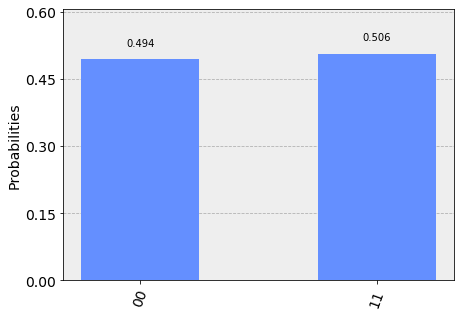
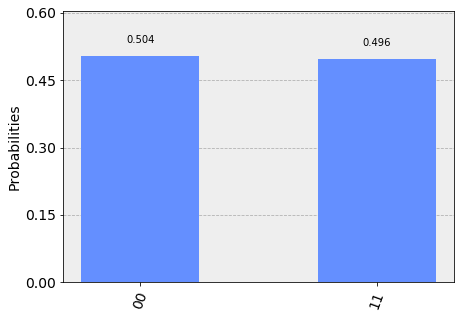
Automated documentation update from meta-qiskit
Commit: 0ca59ba36e3de64f6b4e516d5b1f9fa39742d98f

Travis build: https://travis-ci.com/Qiskit/qiskit/builds/132474613

diff --git a/documentation/release_notes.html b/documentation/release_notes.html
@@ -1328,133 +1328,140 @@
 </tr>
 </thead>
 <tbody>
-<tr class="row-even"><td><p>0.12.2</p></td>
+<tr class="row-even"><td><p>0.13.0</p></td>
+<td><p>0.10.0</p></td>
+<td><p>0.3.2</p></td>
+<td><p>0.2.0</p></td>
+<td><p>0.3.3</p></td>
+<td><p>0.6.1</p></td>
+</tr>
+<tr class="row-odd"><td><p>0.12.2</p></td>
 <td><p>0.9.1</p></td>
 <td><p>0.3.0</p></td>
 <td><p>0.2.0</p></td>
 <td><p>0.3.3</p></td>
 <td><p>0.6.0</p></td>
 </tr>
-<tr class="row-odd"><td><p>0.12.1</p></td>
+<tr class="row-even"><td><p>0.12.1</p></td>
 <td><p>0.9.0</p></td>
 <td><p>0.3.0</p></td>
 <td><p>0.2.0</p></td>
 <td><p>0.3.3</p></td>
 <td><p>0.6.0</p></td>
 </tr>
-<tr class="row-even"><td><p>0.12.0</p></td>
+<tr class="row-odd"><td><p>0.12.0</p></td>
 <td><p>0.9.0</p></td>
 <td><p>0.3.0</p></td>
 <td><p>0.2.0</p></td>
 <td><p>0.3.2</p></td>
 <td><p>0.6.0</p></td>
 </tr>
-<tr class="row-odd"><td><p>0.11.2</p></td>
+<tr class="row-even"><td><p>0.11.2</p></td>
 <td><p>0.8.2</p></td>
 <td><p>0.2.3</p></td>
 <td><p>0.1.1</p></td>
 <td><p>0.3.2</p></td>
 <td><p>0.5.5</p></td>
 </tr>
-<tr class="row-even"><td><p>0.11.1</p></td>
+<tr class="row-odd"><td><p>0.11.1</p></td>
 <td><p>0.8.2</p></td>
 <td><p>0.2.3</p></td>
 <td><p>0.1.1</p></td>
 <td><p>0.3.1</p></td>
 <td><p>0.5.3</p></td>
 </tr>
-<tr class="row-odd"><td><p>0.11.0</p></td>
+<tr class="row-even"><td><p>0.11.0</p></td>
 <td><p>0.8.2</p></td>
 <td><p>0.2.3</p></td>
 <td><p>0.1.1</p></td>
 <td><p>0.3.0</p></td>
 <td><p>0.5.2</p></td>
 </tr>
-<tr class="row-even"><td><p>0.10.5</p></td>
+<tr class="row-odd"><td><p>0.10.5</p></td>
 <td><p>0.8.2</p></td>
 <td><p>0.2.1</p></td>
 <td><p>0.1.1</p></td>
 <td><p>0.2.2</p></td>
 <td><p>0.5.2</p></td>
 </tr>
-<tr class="row-odd"><td><p>0.10.4</p></td>
+<tr class="row-even"><td><p>0.10.4</p></td>
 <td><p>0.8.2</p></td>
 <td><p>0.2.1</p></td>
 <td><p>0.1.1</p></td>
 <td><p>0.2.2</p></td>
 <td><p>0.5.1</p></td>
 </tr>
-<tr class="row-even"><td><p>0.10.3</p></td>
+<tr class="row-odd"><td><p>0.10.3</p></td>
 <td><p>0.8.1</p></td>
 <td><p>0.2.1</p></td>
 <td><p>0.1.1</p></td>
 <td><p>0.2.2</p></td>
 <td><p>0.5.1</p></td>
 </tr>
-<tr class="row-odd"><td><p>0.10.2</p></td>
+<tr class="row-even"><td><p>0.10.2</p></td>
 <td><p>0.8.0</p></td>
 <td><p>0.2.1</p></td>
 <td><p>0.1.1</p></td>
 <td><p>0.2.2</p></td>
 <td><p>0.5.1</p></td>
 </tr>
-<tr class="row-even"><td><p>0.10.1</p></td>
+<tr class="row-odd"><td><p>0.10.1</p></td>
 <td><p>0.8.0</p></td>
 <td><p>0.2.0</p></td>
 <td><p>0.1.1</p></td>
 <td><p>0.2.2</p></td>
 <td><p>0.5.0</p></td>
 </tr>
-<tr class="row-odd"><td><p>0.10.0</p></td>
+<tr class="row-even"><td><p>0.10.0</p></td>
 <td><p>0.8.0</p></td>
 <td><p>0.2.0</p></td>
 <td><p>0.1.1</p></td>
 <td><p>0.2.1</p></td>
 <td><p>0.5.0</p></td>
 </tr>
-<tr class="row-even"><td><p>0.9.0</p></td>
+<tr class="row-odd"><td><p>0.9.0</p></td>
 <td><p>0.8.0</p></td>
 <td><p>0.2.0</p></td>
 <td><p>0.1.1</p></td>
 <td><p>0.1.1</p></td>
 <td><p>0.5.0</p></td>
 </tr>
-<tr class="row-odd"><td><p>0.8.1</p></td>
+<tr class="row-even"><td><p>0.8.1</p></td>
 <td><p>0.7.2</p></td>
 <td><p>0.1.1</p></td>
 <td><p>0.1.0</p></td>
 <td></td>
 <td></td>
 </tr>
-<tr class="row-even"><td><p>0.8.0</p></td>
+<tr class="row-odd"><td><p>0.8.0</p></td>
 <td><p>0.7.1</p></td>
 <td><p>0.1.1</p></td>
 <td><p>0.1.0</p></td>
 <td></td>
 <td></td>
 </tr>
-<tr class="row-odd"><td><p>0.7.3</p></td>
+<tr class="row-even"><td><p>0.7.3</p></td>
 <td><p>&gt;=0.7,&lt;0.8</p></td>
 <td><p>&gt;=0.1,&lt;0.2</p></td>
 <td></td>
 <td></td>
 <td></td>
 </tr>
-<tr class="row-even"><td><p>0.7.2</p></td>
+<tr class="row-odd"><td><p>0.7.2</p></td>
 <td><p>&gt;=0.7,&lt;0.8</p></td>
 <td><p>&gt;=0.1,&lt;0.2</p></td>
 <td></td>
 <td></td>
 <td></td>
 </tr>
-<tr class="row-odd"><td><p>0.7.1</p></td>
+<tr class="row-even"><td><p>0.7.1</p></td>
 <td><p>&gt;=0.7,&lt;0.8</p></td>
 <td><p>&gt;=0.1,&lt;0.2</p></td>
 <td></td>
 <td></td>
 <td></td>
 </tr>
-<tr class="row-even"><td><p>0.7.0</p></td>
+<tr class="row-odd"><td><p>0.7.0</p></td>
 <td><p>&gt;=0.7,&lt;0.8</p></td>
 <td><p>&gt;=0.1,&lt;0.2</p></td>
 <td></td>

diff --git a/documentation/getting_started.html b/documentation/getting_started.html
@@ -1362,7 +1362,7 @@ subsequent sections:</p>
 </pre></div>
 </div>
 <div class="highlight-default notranslate"><div class="highlight"><pre><span></span>
-<span class="n">Total</span> <span class="n">count</span> <span class="k">for</span> <span class="mi">00</span> <span class="ow">and</span> <span class="mi">11</span> <span class="n">are</span><span class="p">:</span> <span class="p">{</span><span class="s1">&#39;11&#39;</span><span class="p">:</span> <span class="mi">506</span><span class="p">,</span> <span class="s1">&#39;00&#39;</span><span class="p">:</span> <span class="mi">494</span><span class="p">}</span>
+<span class="n">Total</span> <span class="n">count</span> <span class="k">for</span> <span class="mi">00</span> <span class="ow">and</span> <span class="mi">11</span> <span class="n">are</span><span class="p">:</span> <span class="p">{</span><span class="s1">&#39;00&#39;</span><span class="p">:</span> <span class="mi">504</span><span class="p">,</span> <span class="s1">&#39;11&#39;</span><span class="p">:</span> <span class="mi">496</span><span class="p">}</span>
 </pre></div>
 </div>
 <pre style="word-wrap: normal;white-space: pre;background: #fff0;line-height: 1.1;font-family: &quot;Courier New&quot;,Courier,monospace">        ┌───┐     ┌─┐   
@@ -1508,7 +1508,7 @@ circuit will yield either the bit string 00 or 11.</p>
 </pre></div>
 </div>
 <div class="highlight-default notranslate"><div class="highlight"><pre><span></span>
-<span class="n">Total</span> <span class="n">count</span> <span class="k">for</span> <span class="mi">00</span> <span class="ow">and</span> <span class="mi">11</span> <span class="n">are</span><span class="p">:</span> <span class="p">{</span><span class="s1">&#39;11&#39;</span><span class="p">:</span> <span class="mi">515</span><span class="p">,</span> <span class="s1">&#39;00&#39;</span><span class="p">:</span> <span class="mi">485</span><span class="p">}</span>
+<span class="n">Total</span> <span class="n">count</span> <span class="k">for</span> <span class="mi">00</span> <span class="ow">and</span> <span class="mi">11</span> <span class="n">are</span><span class="p">:</span> <span class="p">{</span><span class="s1">&#39;00&#39;</span><span class="p">:</span> <span class="mi">516</span><span class="p">,</span> <span class="s1">&#39;11&#39;</span><span class="p">:</span> <span class="mi">484</span><span class="p">}</span>
 </pre></div>
 </div>
 </div>
